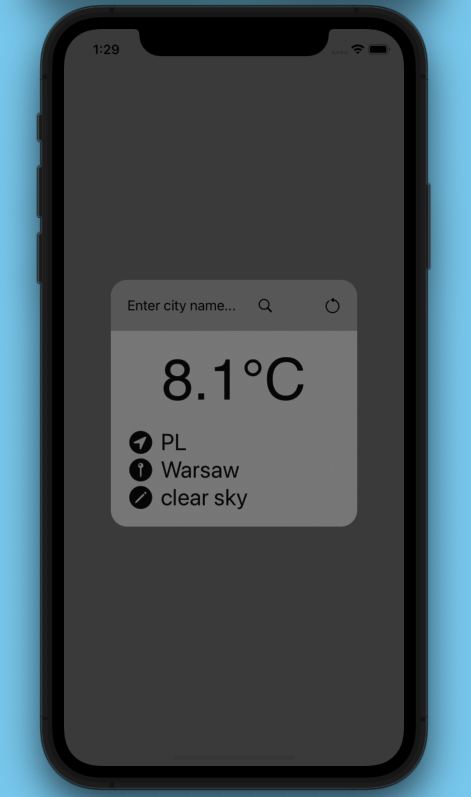
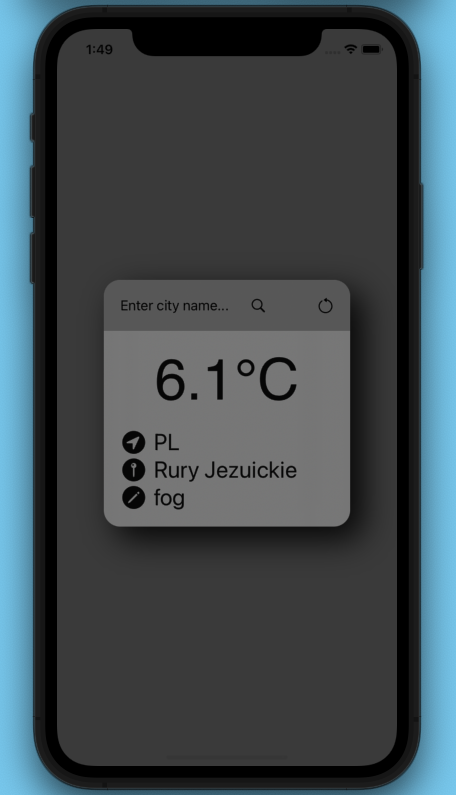
Weather App - Boosted Version

diff --git a/WeatherApp/WeatherApp/ContentView.swift b/WeatherApp/WeatherApp/ContentView.swift
@@ -79,6 +79,7 @@ struct ContentView: View {
             .frame(width: 300, height: 300)
             .background(.ultraThinMaterial)
             .cornerRadius(20)
+            .shadow(color: .black, radius: 20, x: 15, y: 15)
             //.padding()
             .onAppear {
                 locationManager.requestLocation()
